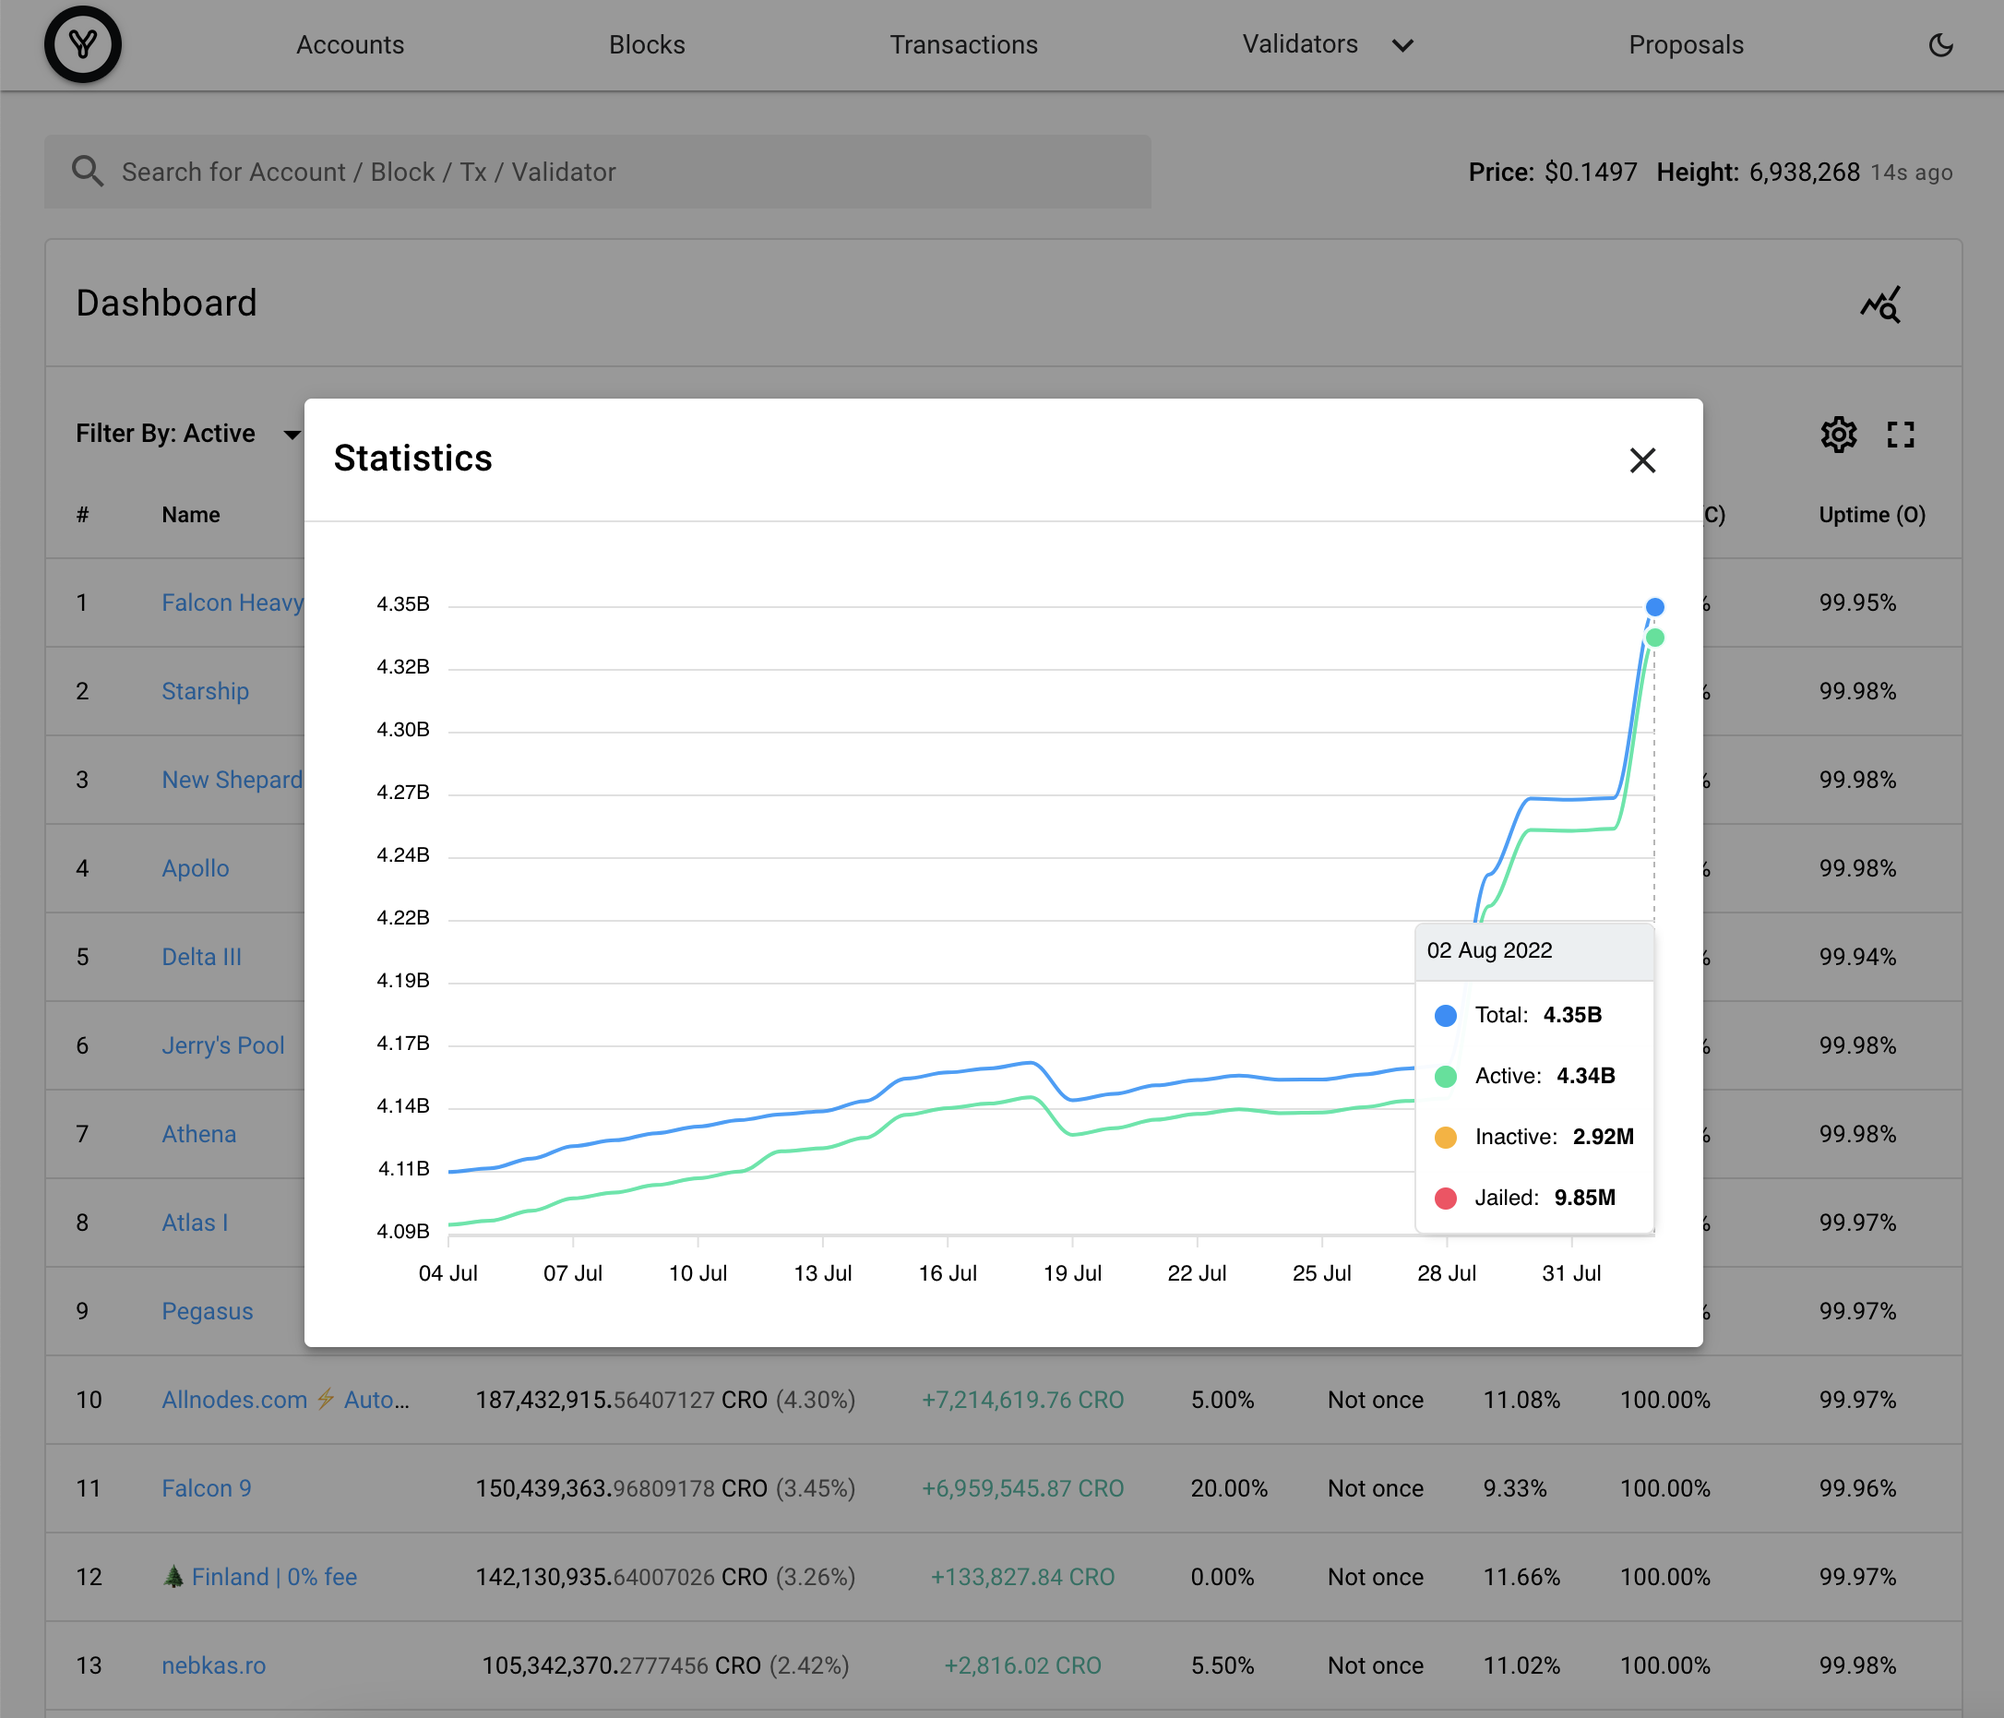
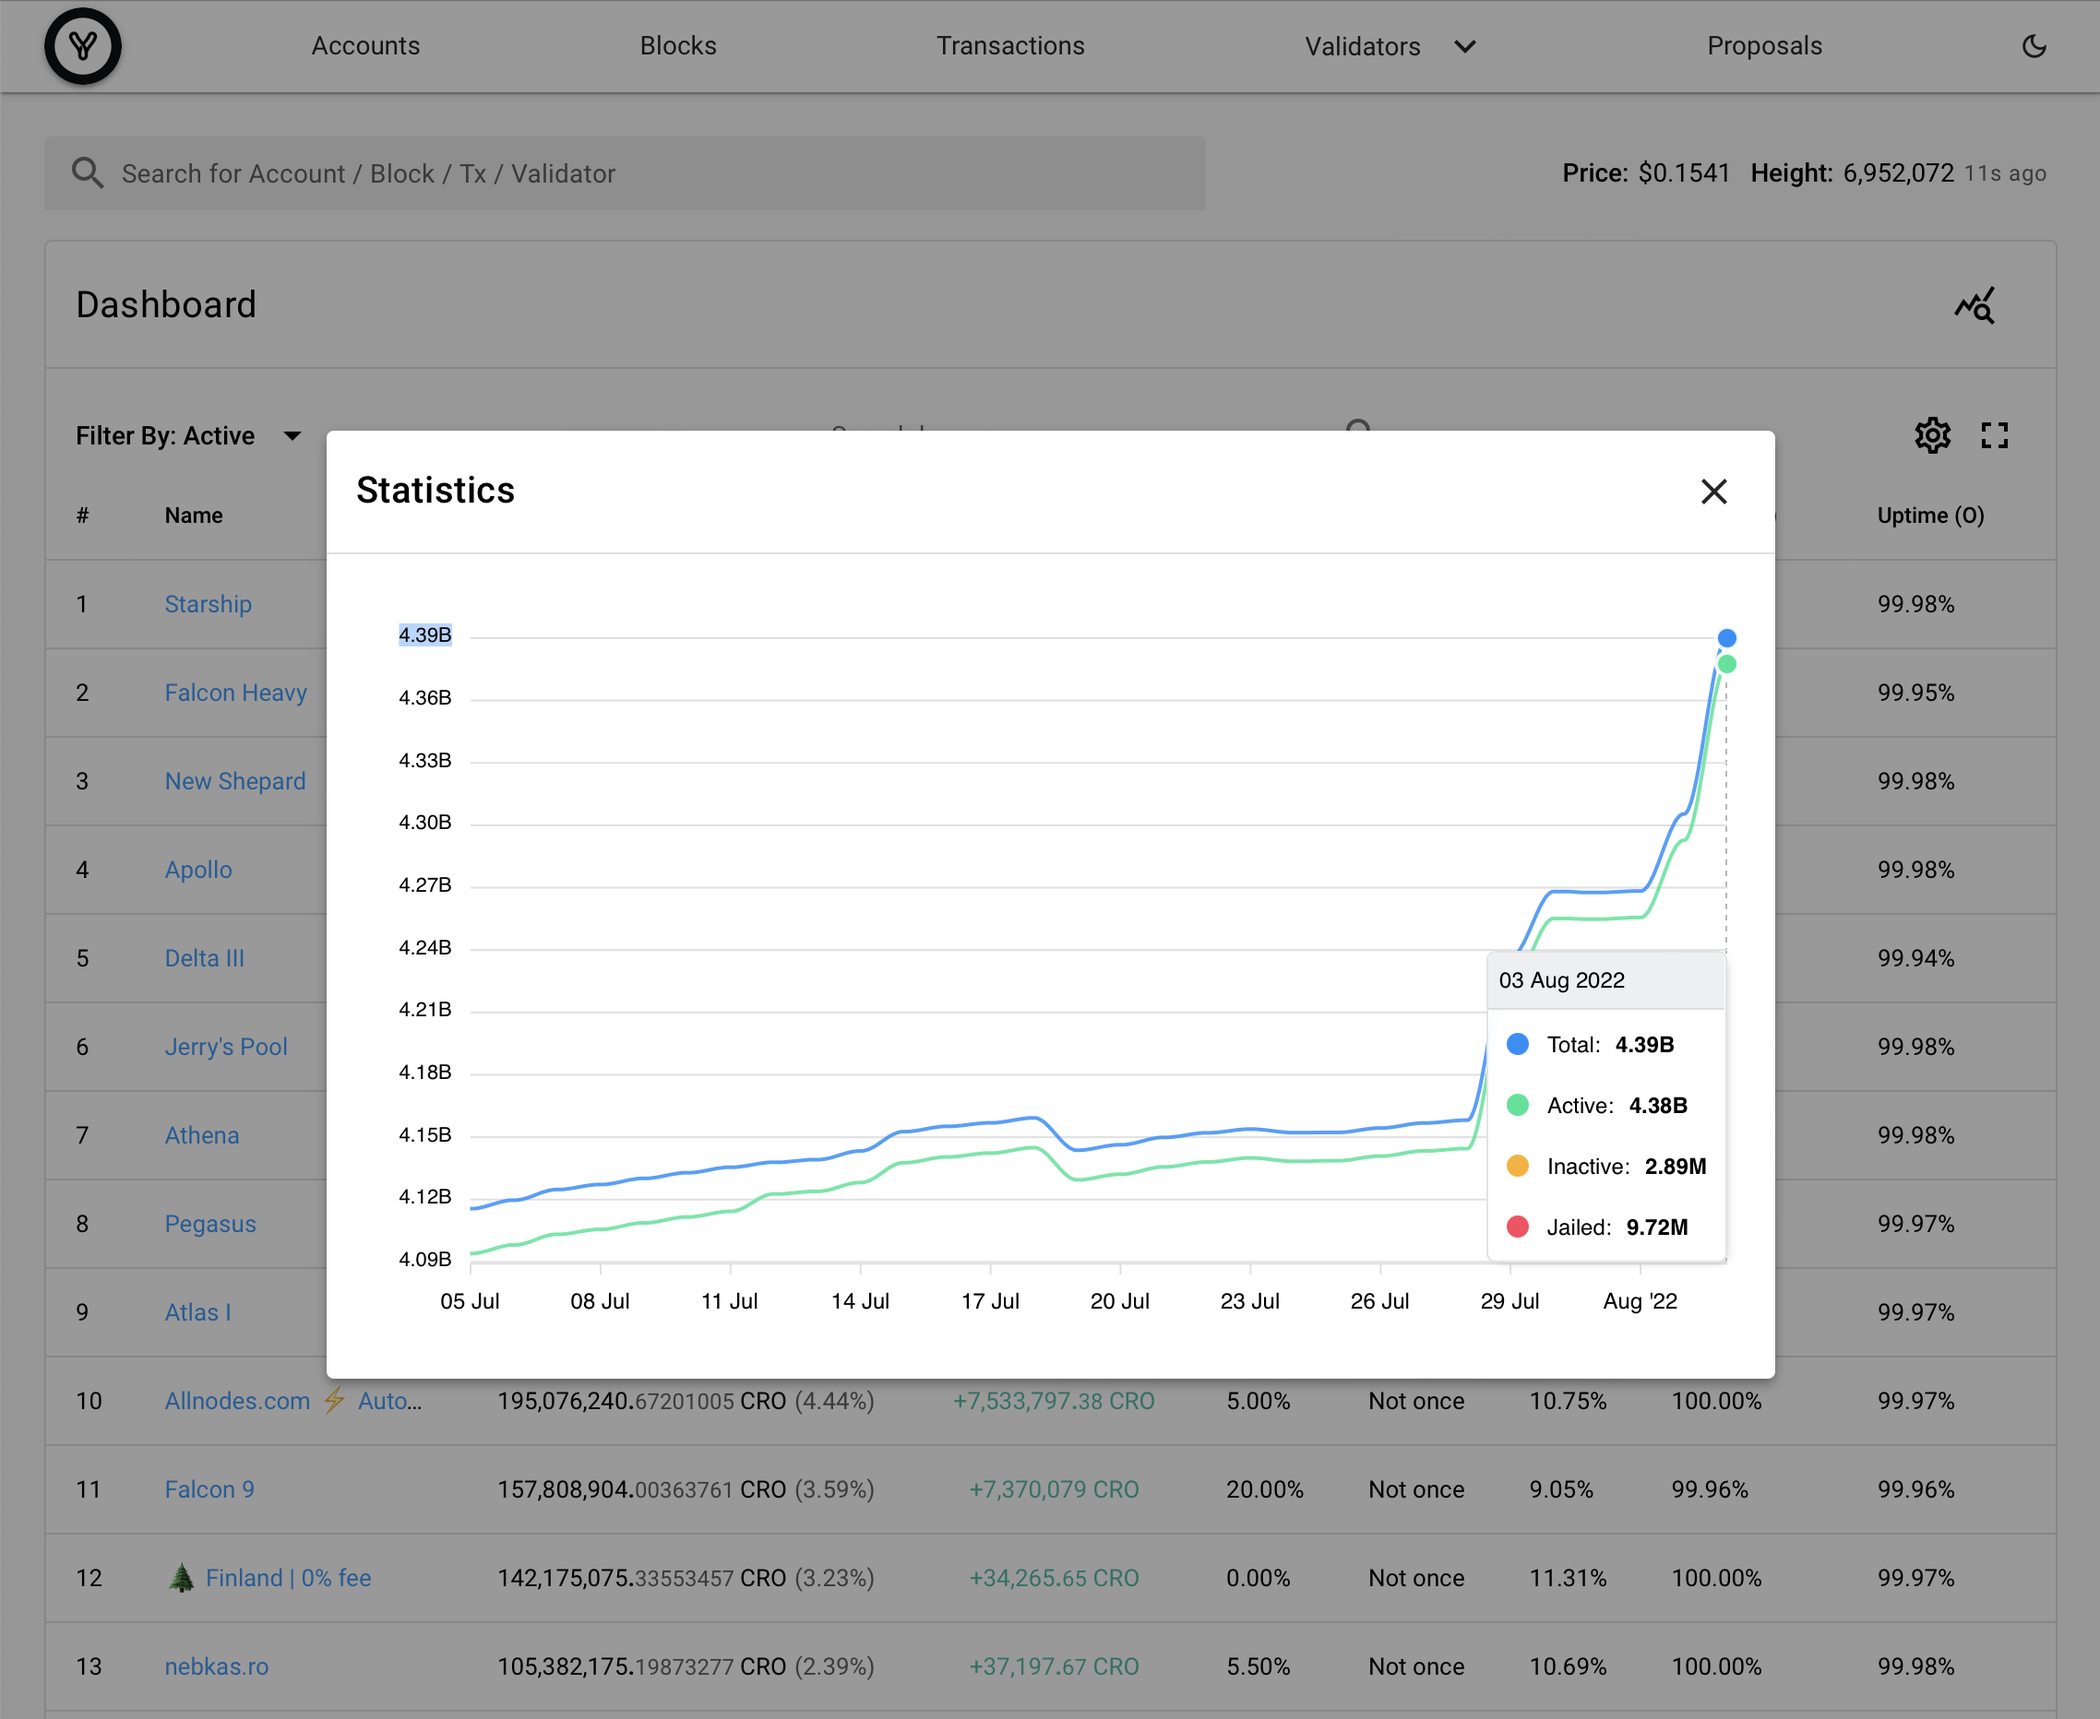
Update: 03.08.22

diff --git a/README.md b/README.md
@@ -144,10 +144,10 @@ Bonded tokens amount increased.
 ![5-statistics.png](./assets/5-statistics.png)
 
 A few more wallets were involved and transferred funds from Ethereum to Crypto.org Mainnet:
-* Migrated an additional ~280 million CRO.
-* Of these, ~188 million have already been delegated.
-* And the remaining ~92 million have not yet been used.
+* Migrated an additional ~314 million CRO.
+* Of these, ~230 million have already been delegated.
+* And the remaining ~84 million have not yet been used.
 
 You can see related data [here](./data/5-fresh-transfers.json).
 
-*Updated: 02.08.22*
+*Updated: 03.08.22*
